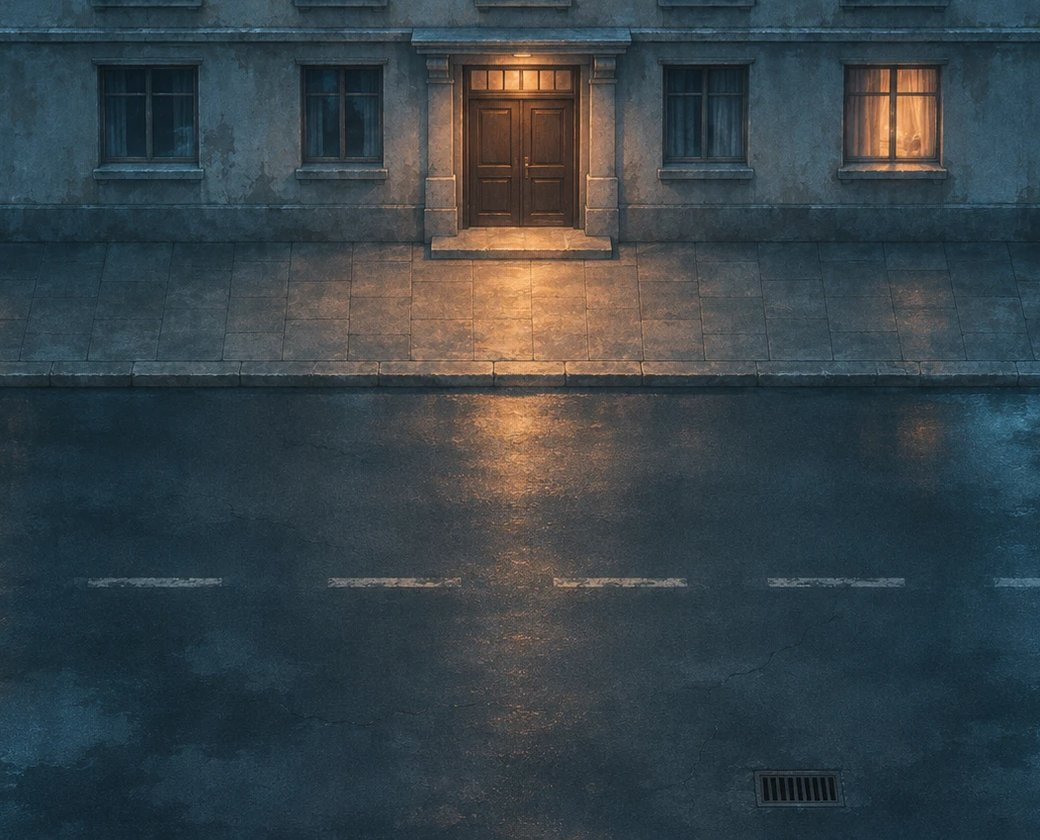
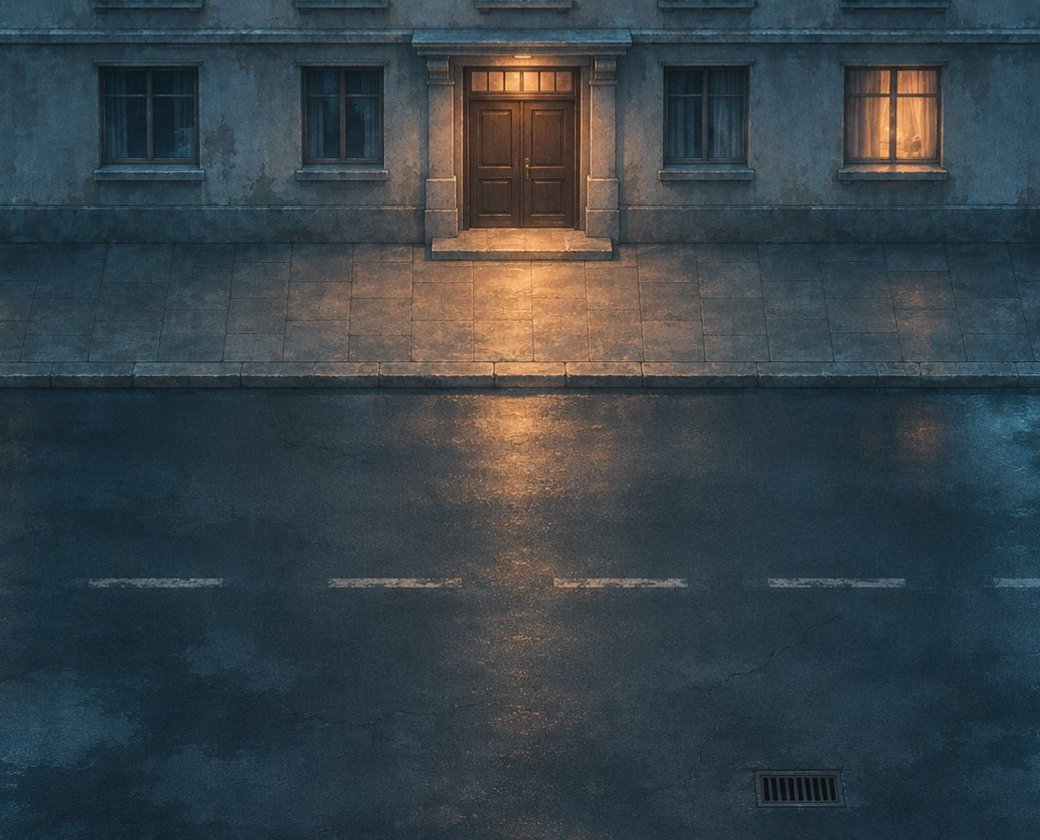
Premier lot de décors peints GPT : quartier (nuit et jour), Sous-gare, Marterey, ruelle, objets peints, outil de fabrication

diff --git a/decors.js b/decors.js
@@ -1,31 +1,78 @@
 'use strict';
 
-// Décors peints : un fond par zone dans assets/decors/<id de zone>.jpg, posé sur le rectangle de la zone (mêmes unités que le jeu, 2 pixels par unité).
-// Les obstacles, collisions, portes et personnages restent ceux du jeu. Sans le fichier, l'ancien dessin en code sert de secours.
-// Pour ajouter une zone : déposer son image dans assets/decors/ et l'ajouter ici ; `hide` liste les obstacles que l'image contient déjà (non dessinés).
+// Décors peints : un fond par zone dans assets/decors/<id de zone>.jpg, posé sur le rectangle de la zone (2 pixels par unité), et des objets peints
+// (assets/decors/objets/) posés sur leurs rectangles de collision. Les collisions, portes et personnages restent ceux du jeu.
+// Sans l'image, l'ancien dessin en code sert de secours. Les images sont fabriquées par docs/art/outils/decors.py.
+// `hide` : obstacles que l'image contient déjà (non dessinés) ; `objects` : sorte d'obstacle -> objet peint (ou fonction de l'obstacle) ;
+// `variant` : version du fond à utiliser (par exemple « jour »), vide pour la version de base.
 const paintedDecor = {
-  zones: { quartier: { hide: ['facade'] } },
-  images: {}
+  zones: {
+    quartier: {
+      hide: ['facade'],
+      objects: { voiture: wall => wall.tint === '#7a2f3a' ? 'voiture-bordeaux' : 'voiture-bleue', velos: 'velos', arbre: 'arbre', fleurs: 'fleurs', poubelle: 'poubelle' },
+      // Le matin du chapitre 2, la rue est de jour ; le reste du temps, de nuit (à affiner selon les scènes).
+      variant: () => (typeof home !== 'undefined' && home.stage === 'matin') ? 'jour' : ''
+    },
+    sousgare: { hide: ['belle-epoque'] },
+    marterey: { hide: ['kebab', 'porte-marron', 'laverie'] },
+    exterieur: { objects: { benne: 'benne', caisses: 'caisses', poubelles: 'poubelles', scooter: 'scooter' }, noProps: true }
+  },
+  images: {},
+  objects: {}
 };
 
 function loadPaintedDecor() {
   if (typeof Image === 'undefined') return;
-  for (const id of Object.keys(paintedDecor.zones)) {
+  const load = (store, key, path) => {
     const image = new Image();
-    image.onload = () => { paintedDecor.images[id] = image; };
-    image.onerror = () => { paintedDecor.images[id] = null; };
-    image.src = `assets/decors/${id}.jpg?v=1`;
+    image.onload = () => { store[key] = image; };
+    image.onerror = () => { store[key] = null; };
+    image.src = path;
+  };
+  for (const [id, config] of Object.entries(paintedDecor.zones)) {
+    load(paintedDecor.images, id, `assets/decors/${id}.jpg?v=2`);
+    if (config.variant) load(paintedDecor.images, `${id}-jour`, `assets/decors/${id}-jour.jpg?v=2`);
+    for (const value of Object.values(config.objects || {})) {
+      const names = typeof value === 'function' ? ['voiture-bordeaux', 'voiture-bleue'] : [value];
+      for (const name of names) load(paintedDecor.objects, name, `assets/decors/objets/${name}.png?v=2`);
+    }
   }
+}
+
+function paintedDecorImage(zone) {
+  const config = paintedDecor.zones[zone.id];
+  if (!config) return null;
+  const variant = config.variant ? config.variant() : '';
+  return (variant && paintedDecor.images[`${zone.id}-${variant}`]) || paintedDecor.images[zone.id] || null;
 }
 
 // Dessine le fond peint de la zone ; renvoie faux si la zone n'en a pas (ou s'il n'est pas chargé).
 function drawPaintedDecor(zone, offsetX, offsetY) {
-  const image = paintedDecor.images[zone.id];
+  const image = paintedDecorImage(zone);
   if (!image) return false;
   ctx.drawImage(image, zone.room.x + offsetX, zone.room.y + offsetY, zone.room.width, zone.room.height);
   return true;
 }
 
-const paintedDecorHides = (zone, wall) => !!(paintedDecor.images[zone.id] && (paintedDecor.zones[zone.id].hide || []).includes(wall.kind));
+const paintedDecorActive = zone => !!paintedDecorImage(zone);
+const paintedDecorHides = (zone, wall) => paintedDecorActive(zone) && (paintedDecor.zones[zone.id].hide || []).includes(wall.kind);
+
+// Objet peint posé sur son rectangle de collision : calé en bas, centré, il dépasse un peu vers le haut (vue en trois quarts).
+function drawPaintedObject(zone, wall, x, y) {
+  if (!paintedDecorActive(zone)) return false;
+  const rule = (paintedDecor.zones[zone.id].objects || {})[wall.kind];
+  const name = typeof rule === 'function' ? rule(wall) : rule;
+  const art = name && paintedDecor.objects[name];
+  if (!art) return false;
+  const w = wall.width, h = wall.height;
+  const scale = Math.min(w / art.width, h * 1.7 / art.height);
+  const dw = art.width * scale, dh = art.height * scale;
+  ctx.save();
+  ctx.fillStyle = '#05080e88';
+  ctx.beginPath(); ctx.ellipse(x + w / 2 + 3, y + h - 2, dw / 2, Math.max(4, dh * .08), 0, 0, Math.PI * 2); ctx.fill();
+  ctx.drawImage(art, x + (w - dw) / 2, y + h - dh, dw, dh);
+  ctx.restore();
+  return true;
+}
 
 loadPaintedDecor();

diff --git a/render.js b/render.js
@@ -235,12 +235,13 @@ function drawRoom(offsetX, offsetY) {
       }
     }
   }
-  if (outdoors) drawProps(offsetX, offsetY);
+  if (outdoors && !(paintedDecorActive(currentZone) && paintedDecor.zones[currentZone.id].noProps)) drawProps(offsetX, offsetY);
   if (crystal) drawAntreCables(offsetX, offsetY);
   ctx.restore();
   walls.forEach((wall, index) => {
     const x = wall.x + offsetX, y = wall.y + offsetY;
     if (paintedDecorHides(currentZone, wall)) return;
+    if (drawPaintedObject(currentZone, wall, x, y)) return;
     if (crystal) { drawAntreSolid(wall, x, y, index >= 4); return; }
     if (custom) { custom.solid(wall, x, y, index); return; }
     if (indoor) { drawAppartSolid(wall, x, y, index); return; }

diff --git a/index.html b/index.html
@@ -231,7 +231,7 @@
   <script src="render-appart.js?v=44" defer></script>
   <script src="render-antre.js?v=42" defer></script>
   <script src="lighting.js?v=75" defer></script>
-  <script src="decors.js?v=1" defer></script>
+  <script src="decors.js?v=2" defer></script>
   <script src="render.js?v=79" defer></script>
   <script src="combat.js?v=56" defer></script>
   <script src="input.js?v=62" defer></script>

diff --git a/docs/art/outils/decors.py b/docs/art/outils/decors.py
@@ -1,0 +1,94 @@
+#!/usr/bin/env python3
+"""Fabrique les décors du jeu à partir de docs/art/decors/ : fonds recadrés sur le rectangle de chaque zone (2 pixels par unité) et objets détourés.
+Usage : python3 docs/art/outils/decors.py   (depuis la racine du dépôt ; demande Pillow et numpy)
+Chaque fond est ancré sur la ligne basse de la façade (`face`, part de la hauteur de l'image) : elle tombe sur le bas du bloc de collision de la façade
+(`bloc`, ordonnée du monde), et le fond du bas de l'image sur le bas de la zone. `cx` : centre horizontal de l'image gardé. Voir `assets/decors/`."""
+import sys, os
+sys.path.insert(0, os.path.dirname(__file__))
+import numpy as np
+from collections import deque
+from PIL import Image
+
+SRC = 'docs/art/decors/sources/'
+# nom : (zone x, y, largeur, hauteur) ; ancrage : (part de l'image où finit la façade, ordonnée du bas du bloc de façade, part horizontale du centre)
+ZONES = {
+    'quartier': ((-260, -200, 520, 420), (0.459, -80, 0.505)),
+    'quartier-jour': ((-260, -200, 520, 420), (0.459, -80, 0.505)),
+    'sousgare': ((-260, -330, 520, 510), (0.565, -70, 0.50)),
+    'marterey': ((-260, -180, 520, 340), (0.50, -70, 0.50)),
+    'exterieur': ((-200, -520, 400, 1040), None),
+}
+
+def background(name, room, anchor):
+    im = Image.open(SRC + name.replace('-jour', '-jour') + '.jpg').convert('RGB')
+    W, H = im.size
+    rx, ry, rw, rh = room
+    if anchor is None:  # ruelle : toute la hauteur, bande centrale
+        cw = int(rh and H * rw / rh)
+        x0 = max(0, min(W - cw, int(W * 0.5 - cw / 2)))
+        crop = im.crop((x0, 0, x0 + cw, H))
+    else:
+        face, bloc, cx = anchor
+        sy = (ry + rh - bloc) / (H * (1 - face))           # unités par pixel, vertical
+        top = face * H - (bloc - ry) / sy                  # première ligne de l'image gardée
+        cw = rw / sy                                       # largeur gardée à la même échelle
+        if top < 0 or cw > W:                              # image trop courte ou trop étroite : on étire
+            print('  ! ancrage approché', name, round(top), round(cw), W)
+            top = max(0, top); cw = min(W, cw)
+        x0 = max(0, min(W - cw, W * cx - cw / 2))
+        crop = im.crop((int(x0), int(top), int(x0 + cw), H))
+    crop.resize((rw * 2, rh * 2), Image.LANCZOS).save(f'assets/decors/{name}.jpg', quality=85, optimize=True)
+    print('fond', name, crop.size)
+
+# --- objets : détourage du fond vert, une forme = un objet, rangées de gauche à droite puis de haut en bas
+def key(path):
+    a = np.asarray(Image.open(path).convert('RGB')).astype(float)
+    r, g, b = a[..., 0], a[..., 1], a[..., 2]
+    dom = g - np.maximum(r, b)
+    alpha = np.clip((70 - dom) / 45, 0, 1)
+    g2 = np.where(dom > 0, np.maximum(r, b), g)
+    return np.dstack([r, g2, b, alpha * 255]).astype(np.uint8)
+
+def boxes(alpha, step=4, minimum=60):
+    small = alpha[::step, ::step] > 24
+    h, w = small.shape
+    seen = np.zeros_like(small, bool); found = []
+    for y0 in range(h):
+        for x0 in np.nonzero(small[y0] & ~seen[y0])[0]:
+            if seen[y0, x0]: continue
+            queue = deque([(y0, x0)]); seen[y0, x0] = True; ys = [y0]; xs = [x0]; count = 0
+            while queue:
+                y, x = queue.popleft(); count += 1
+                for dy in (-2, -1, 0, 1, 2):
+                    for dx in (-2, -1, 0, 1, 2):
+                        yy, xx = y + dy, x + dx
+                        if 0 <= yy < h and 0 <= xx < w and small[yy, xx] and not seen[yy, xx]:
+                            seen[yy, xx] = True; queue.append((yy, xx)); ys.append(yy); xs.append(xx)
+            if count >= minimum: found.append((min(xs) * step, min(ys) * step, (max(xs) + 1) * step, (max(ys) + 1) * step))
+    return found
+
+def sheet(name, names, width=360, rows=None):
+    rgba = key(f'docs/art/decors/planches/{name}.png')
+    found = boxes(rgba[..., 3])
+    # rangées : on regroupe par ordonnée du centre
+    found.sort(key=lambda b: (b[1] + b[3]) / 2)
+    bands = []
+    for b in found:
+        if bands and abs((b[1] + b[3]) / 2 - bands[-1][0][1] / 1) < 1e9 and (b[1] + b[3]) / 2 - (bands[-1][-1][1] + bands[-1][-1][3]) / 2 < (rgba.shape[0] / 6): bands[-1].append(b)
+        else: bands.append([b])
+    ordered = [b for band in bands for b in sorted(band, key=lambda t: t[0])]
+    if len(ordered) != len(names): print('  ! planche', name, len(ordered), 'formes pour', len(names), 'noms', ordered)
+    for box, label in zip(ordered, names):
+        x0, y0, x1, y1 = box
+        cell = rgba[y0:y1, x0:x1]
+        img = Image.fromarray(cell, 'RGBA')
+        img = img.resize((width, max(1, round(img.height * width / img.width))), Image.LANCZOS)
+        a = np.asarray(img).copy(); a[..., 3] = np.where(a[..., 3] <= 24, 0, a[..., 3]); img = Image.fromarray(a, 'RGBA')
+        img.quantize(colors=160, method=Image.FASTOCTREE, dither=Image.NONE).save(f'assets/decors/objets/{label}.png', optimize=True)
+        print('objet', label, img.size)
+
+if __name__ == '__main__':
+    os.makedirs('assets/decors/objets', exist_ok=True)
+    for name, (room, anchor) in ZONES.items(): background(name, room, anchor)
+    sheet('quartier', ['voiture-bordeaux', 'voiture-bleue', 'velos', 'arbre', 'fleurs', 'poubelle'])
+    sheet('exterieur', ['benne', 'caisses', 'poubelles', 'poubelles-b', 'scooter'])

diff --git a/PROJECT.md b/PROJECT.md
@@ -230,6 +230,7 @@ La zone extérieure vient en dernier et en deux temps (structure, puis contenu) 
 | 17n | implémentée, à valider sur Android | **Texte progressif** (`dialogue.js`) : les répliques s'écrivent lettre par lettre, la voix de Tiamat un peu plus lentement ; un tap affiche la réplique en entier, le suivant passe à la suivante (`advanceStory`). Réglage « Vitesse du texte » (lente, normale, rapide, instantanée) dans les paramètres, gardé dans le navigateur ; instantané si « réduire les animations » est actif. Scripts `?v=79`. |
 | 17o | retour en arrière du 4 novembre 2026 | **Retour au RPG narratif.** Décision de Jordan : on abandonne l'essai de roguelite et on garde la direction artistique d'origine. `main` revient à l'état du texte progressif et du correctif d'image blanche (`color-scheme`), sans le combat au tour par tour (`combat-tour.js`, réglage « Combat »), sans le décor peint de la ruelle ni les objets peints, et sans la boucle de run (récompenses, butin, boutique, histoire du hub, cahier des charges, inventaire, découpage). Tout cela est conservé, intact, sur la branche `archive/roguelite-v1` (dernier commit : fusion de la PR #62) et peut être repris. Les chapitres 1 à 6 et le mode libre d'origine sont inchangés. Quarante-huit scénarios. |
 | 17p | implémentée, à valider sur Android | **Décors peints, système générique** (`decors.js`, `docs/COMMANDES-DECORS.md`) : un fond par zone dans `assets/decors/<zone>.jpg`, posé sur le rectangle de la zone ; les obstacles, collisions, portes et personnages restent ceux du jeu ; sans l'image, l'ancien dessin en code sert de secours. Premier décor branché : la rue du quartier (nuit), généré par GPT, façade non dessinée (`hide`). Liste complète de ce que GPT doit générer (24 images en trois lots, 5 planches d'objets) dans `docs/COMMANDES-DECORS.md`. Quarante-huit scénarios. Scripts `?v=79`, `decors.js?v=1`. |
+| 17q | implémentée, à valider sur Android | **Premier lot de décors peints (GPT)**, 24 images reçues de Jordan (19 fonds, 5 planches d'objets), rangées dans `docs/art/decors/` (sources réduites et planches) et fabriquées par `docs/art/outils/decors.py`. Branchés : rue du quartier (nuit, et jour le matin du chapitre 2), Sous-gare, rue Marterey, ruelle, avec leurs objets peints (voitures, vélos, arbre en bac, jardinières, poubelle ; benne, caisses, poubelles, scooter). Fonds ancrés sur la ligne basse des façades pour que les collisions tombent juste. Pas encore branchés (à recaler sur les collisions, un par un) : impasse, cour, escalier, square, Flon, comptoir, 4B, appartement, préau, hall, penthouse, donjon, salle ocre, antre. Quarante-huit scénarios. |
 | 17 | à lancer | Bilan de la phase 2 : fluidité mesurée sur téléphone, poids des images, décision sur Godot. Soumis à validation de Jordan. |
 
 ## 10. Suite — antre de l’araignée et réveil dans la ruelle
